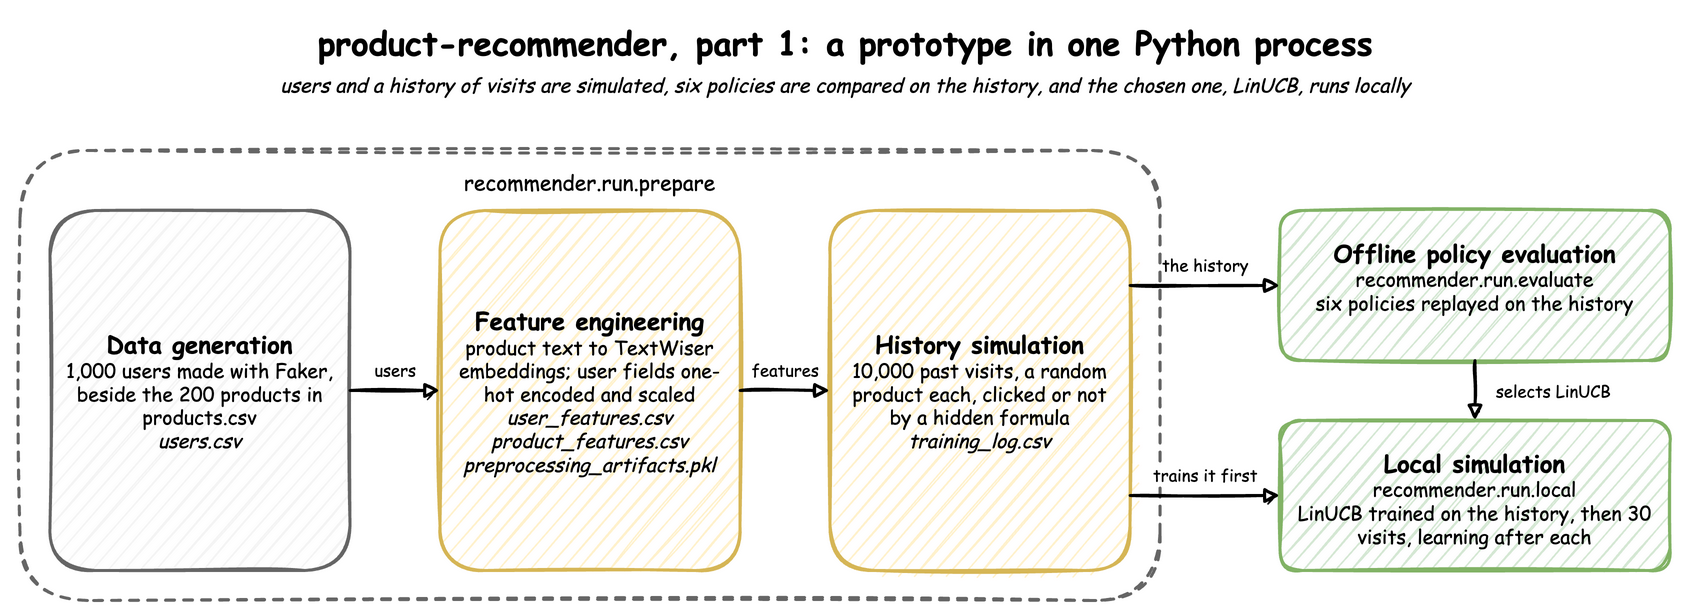
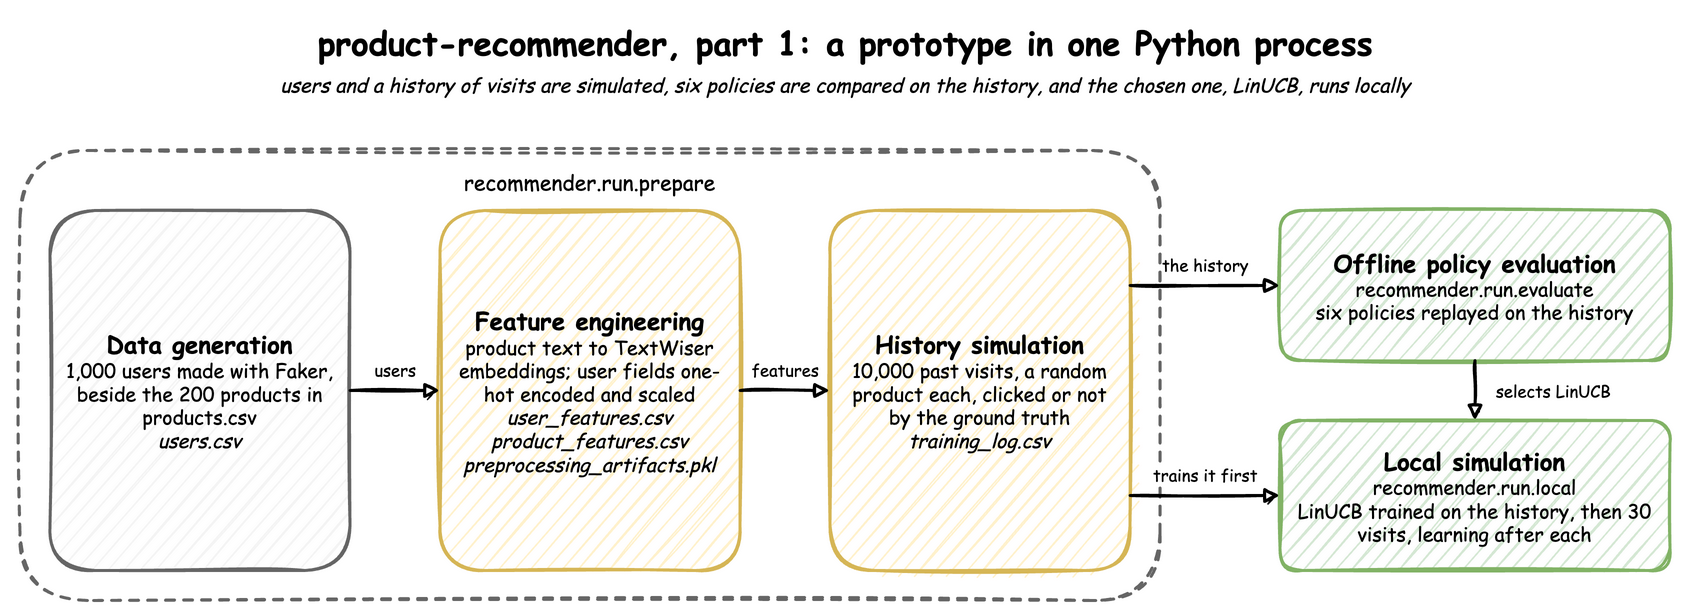
product-recommender: Part 1 and Part 2, ground truth, centred diagram text
The README lists every step of each part, the click model is called the ground truth throughout, and data.md lists the Flink checkpoints.

Changed region(s): [[0.7715, 0.7427, 0.9875, 0.8974], [0.7715, 0.4023, 0.9875, 0.5261], [0.5246, 0.6498, 0.6481, 0.7117]]

diff --git a/product-recommender/README.md b/product-recommender/README.md
@@ -16,29 +16,31 @@ More detail is in two documents:
 
 ## Architecture
 
-The recommender is a **contextual bandit**: for each visit it shows five products, sees whether one is clicked, and learns from what is known about the visit, such as the user's age and the time of day. So it can recommend to a first-time visitor, which avoids the [cold-start problem](docs/concepts.md#cold-start). The algorithm is **LinUCB**, one small linear model per product. [Concepts](docs/concepts.md#bandits) explains both from the start. The users and clicks are simulated, and a hidden formula decides each click, so there is a pattern to find.
+The recommender is a **contextual bandit**: for each visit it shows five products, sees whether one is clicked, and learns from what is known about the visit, such as the user's age and the time of day. So it can recommend to a first-time visitor, which avoids the [cold-start problem](docs/concepts.md#cold-start). The algorithm is **LinUCB**, one small linear model per product. [Concepts](docs/concepts.md#bandits) explains both from the start. The users and clicks are simulated, and a hidden ground truth decides each click, so there is a pattern to find.
 
 ### What you will build
 
-**Step 1: a prototype in one Python process**
+**Part 1: a prototype in one Python process**
 
 ![Data generation, feature engineering and history simulation build the history; the offline policy evaluation selects LinUCB, which the local simulation trains on the history and then runs](images/part-1.png)
 
-1. Generate 1,000 users, the features of 200 products, and a history of 10,000 past visits.
-2. Compare six recommenders on that history, and pick LinUCB.
-3. Run LinUCB for 30 simulated visits, learning after each one.
+1. **Data generation:** create 1,000 users with Faker, beside the 200 products in `data/products.csv`.
+2. **Feature engineering:** turn each product's name and description into numbers with TextWiser, and encode and scale the user fields, so every user and product is a feature vector.
+3. **History simulation:** simulate 10,000 past visits, each a random user shown a random product, with the [ground truth](docs/concepts.md#ground-truth) deciding the click. This history is `training_log.csv`.
+4. **Offline policy evaluation:** replay the history to compare six recommenders, and select LinUCB.
+5. **Local simulation:** train LinUCB on the history, then run 30 simulated visits. For each visit it recommends five products and learns from the click.
 
-**Step 2: an event-driven system**
+**Part 2: an event-driven system**
 
 ![The Flink job trains the models on the history in SeaweedFS first, then on the feedback the live client sends to Kafka, and writes them to Valkey for the client to read](images/part-2.png)
 
-1. Build the Flink job and submit it. It trains the models on the history first.
-2. Run the live client. It recommends from the models in Valkey and sends each result to Kafka.
-3. Watch the Flink job pick up the results and write the updated models back.
+1. **Warm start:** `submit-job.sh` uploads the history to SeaweedFS and submits the Flink job. The job reads the history first and trains one LinUCB model per product, which it writes to Valkey every 5 seconds.
+2. **Live serving:** once the warm start has finished, the live client serves simulated visits. For each one it ranks the products with the models in Valkey, shows five, and sends the result, a click or not, to the Kafka topic `feedback-events`.
+3. **Live training:** after the history, the Flink job reads the topic, updates each product's model from every result and writes it back to Valkey, so the next visit uses the updated models.
 
-Step 1 needs no services. Step 2 runs them with odctl.
+Part 1 needs no services. Part 2 runs them with odctl.
 
-To start again at any point, `python -m recommender.stores.cleanup` removes what Step 2 wrote to the services and keeps them running. See [Clean up](#clean-up).
+To start again at any point, `python -m recommender.stores.cleanup` removes what Part 2 wrote to the services and keeps them running. See [Clean up](#clean-up).
 
 ### Tools
 
@@ -70,7 +72,7 @@ uv pip install -r requirements.txt   # includes the odctl command
 
 ### Services
 
-Step 1 needs none of the services. Step 2 uses Kafka, Flink and Valkey:
+Part 1 needs none of the services. Part 2 uses Kafka, Flink and Valkey:
 
 ```bash
 odctl up kafka-lite flink-full valkey   # Kafka, Flink with 3 TaskManagers, and Valkey
@@ -110,7 +112,7 @@ The web UIs:
 - Kafka UI: http://127.0.0.1:8086
 - SeaweedFS file browser: http://127.0.0.1:8889
 
-## Step 1: prototype in Python
+## Part 1: prototype in Python
 
 These steps need none of the services. Each accepts `--seed`, which defaults to 1237. The same seed always gives the same output, so your run matches the output below.
 
@@ -124,7 +126,7 @@ It writes three things to `data/`, listed in [Data](docs/data.md):
 
 - **Users:** 1,000 users, each with an age, a gender, a Melbourne postal area and a traffic source.
 - **Features:** each user and product as numbers, which [Concepts](docs/concepts.md#features-and-the-context-vector) explains.
-- **History:** 10,000 past visits, each a random user shown a random product, with the [hidden click formula](docs/concepts.md#hidden-click-formula) deciding the click.
+- **History:** 10,000 past visits, each a random user shown a random product, with the [ground truth](docs/concepts.md#ground-truth) deciding the click.
 
 The last lines of its output:
 
@@ -174,9 +176,9 @@ User 0508 (64 yo) @ Tue 12:41 -> Recs: [165, 087, 026, 171, 037] -> Clicked: 165
 
 Visit 21 is on a Tuesday morning, and all five recommendations are coffees, products 189 to 194. Visit 30 is on the same Tuesday, 41 minutes after the morning ends at 12:00, and no coffee is shown. The time of day is part of the context, and the history taught it that coffee is clicked in the morning. Across the 30 visits, 16 end in a click, 53%, against 13.65% at random. [Concepts](docs/concepts.md#linucb) explains how LinUCB scores.
 
-## Step 2: event-driven system
+## Part 2: event-driven system
 
-Step 2 splits the prototype's work in two ([why](docs/concepts.md#splitting-serving-from-training)):
+Part 2 splits the prototype's work in two ([why](docs/concepts.md#splitting-serving-from-training)):
 
 - **Serving:** `python -m recommender.run.live` reads every product's model from Valkey, recommends the five highest-scoring products, and sends the visit's result to the Kafka topic `feedback-events`.
 - **Training:** the Flink job `RecommenderParameterUpdate` reads the history, then every feedback event. Every 5 seconds it writes each changed model to Valkey, under the key `linucb:<product id>`.
@@ -191,7 +193,7 @@ Step 2 splits the prototype's work in two ([why](docs/concepts.md#splitting-serv
 
 ### Submit the Flink job
 
-Step 2 needs the history from `python -m recommender.run.prepare`.
+Part 2 needs the history from `python -m recommender.run.prepare`.
 
 ```bash
 ./submit-job.sh
@@ -221,7 +223,7 @@ docker exec valkey valkey-cli --user user --pass password --no-auth-warning --sc
 python -m recommender.run.live
 ```
 
-It serves a visit every 0.1 seconds until Ctrl+C, printed as in Step 1. For each visit it reads all 200 models from Valkey in one request, shows the five best, and sends a feedback event to Kafka with the product, the reward (1 for a click, 0 for none) and the context.
+It serves a visit every 0.1 seconds until Ctrl+C, printed as in Part 1. For each visit it reads all 200 models from Valkey in one request, shows the five best, and sends a feedback event to Kafka with the product, the reward (1 for a click, 0 for none) and the context.
 
 To see the job write the models, watch a TaskManager's log in a second terminal:
 
@@ -255,7 +257,7 @@ They check, for example, that a seed repeats the users and clicks, that a click 
 
 ## Clean up
 
-`python -m recommender.stores.cleanup` removes what Step 2 wrote to the services, and keeps them running:
+`python -m recommender.stores.cleanup` removes what Part 2 wrote to the services, and keeps them running:
 
 - **Flink:** cancels the job `RecommenderParameterUpdate` first, so it cannot write a model after the models are deleted.
 - **Valkey:** deletes every `linucb:*` key. Without this, a new run starts from the last run's models.

diff --git a/product-recommender/docs/concepts.md b/product-recommender/docs/concepts.md
@@ -42,11 +42,11 @@ A model needs numbers, so [`features.py`](../recommender/data/features.py) turns
 - **Product text** becomes 10 numbers, `txt_0` to `txt_9`: TextWiser weights the words with TF-IDF and reduces them to 10 dimensions with SVD.
 - **Visit time** becomes five flags: `is_morning` (06:00 to 12:00), `is_afternoon` (12:00 to 18:00), `is_evening` (18:00 to 24:00), `is_weekend` and `is_weekday`.
 
-The fitted transformations are saved, so a new user gets the same ones. The **context vector** `x` the bandit sees is the user's 10 features and the 5 time flags, 15 numbers. Only the hidden formula reads the product features.
+The fitted transformations are saved, so a new user gets the same ones. The **context vector** `x` the bandit sees is the user's 10 features and the 5 time flags, 15 numbers. Only the ground truth reads the product features.
 
-## Hidden click formula
+## Ground truth
 
-`click_probability` in [`simulation.py`](../recommender/engine/simulation.py) decides the simulated clicks, and the bandit never sees it. It starts from a score of −2.5 and applies four rules:
+`click_probability` in [`simulation.py`](../recommender/engine/simulation.py) decides the simulated clicks. It is the simulation's **ground truth**, and the bandit never sees it. It starts from a score of −2.5 and applies four rules:
 
 | Rule | When | Change |
 |---|---|---|
@@ -130,7 +130,7 @@ Four of LinUCB's test visits, from the run with the default seed, 1237:
 | 8003 | weekend evening | Dim Sims | yes | no | skipped |
 | 8024 | weekday morning | Strawberry Milkshake | yes | no | skipped |
 
-On weekend evenings LinUCB's five are mostly pizzas, and on weekday mornings they include coffees, as the [hidden click formula](#hidden-click-formula) rewards. Across the 2,000 test visits, 44 are kept and 9 of those were clicked, so its `CTR(score)@5` is 9 / 44 = 20.5%.
+On weekend evenings LinUCB's five are mostly pizzas, and on weekday mornings they include coffees, as the [ground truth](#ground-truth) rewards. Across the 2,000 test visits, 44 are kept and 9 of those were clicked, so its `CTR(score)@5` is 9 / 44 = 20.5%.
 
 ### Support and uncertainty
 
@@ -158,7 +158,7 @@ The number of visits a score is based on is its **support**. A click rate p meas
 
 ## Splitting serving from training
 
-One process that recommends and learns does not scale: the next user waits while it learns, and copies of it would learn different models. Step 2 splits the work:
+One process that recommends and learns does not scale: the next user waits while it learns, and copies of it would learn different models. Part 2 splits the work:
 
 - **Serving**, the live client, keeps nothing between visits: it reads the models, scores and sends the result. So copies of it could run side by side.
 - **Training**, the Flink job, holds every product's `A` and `b` and updates them.
@@ -167,7 +167,7 @@ One process that recommends and learns does not scale: the next user waits while
 
 The cost is that the client ranks with models a few seconds old.
 
-This makes Step 2 an **event-driven** system: the client writes an **event**, a record of something that happened, and the Flink job reacts to it. Neither calls the other.
+This makes Part 2 an **event-driven** system: the client writes an **event**, a record of something that happened, and the Flink job reacts to it. Neither calls the other.
 
 ## Feedback events
 

diff --git a/product-recommender/docs/data.md b/product-recommender/docs/data.md
@@ -42,7 +42,7 @@ Every file, topic and key the [product-recommender](../README.md) steps read and
 
 [Concepts](concepts.md#features-and-the-context-vector) explains each transformation.
 
-## Step 2
+## Part 2
 
 | Where | What |
 |---|---|
@@ -50,3 +50,4 @@ Every file, topic and key the [product-recommender](../README.md) steps read and
 | Kafka topic `feedback-events` | one Avro event per visit, keyed by product: `event_id`, `product_id`, `reward` (1 or 0), `context_vector` (the 15 numbers) and `timestamp` (the visit time, in milliseconds) |
 | schema registry subject `feedback-events-value` | the event's Avro schema |
 | Valkey keys `linucb:<product id>` | each product's model as JSON: `A_inv`, 15 by 15, and `b`, 15 numbers |
+| `s3://flink-checkpoints/2.x/` | the Flink job's checkpoints, saved every 10 seconds, at the location odctl's Flink configuration sets |
